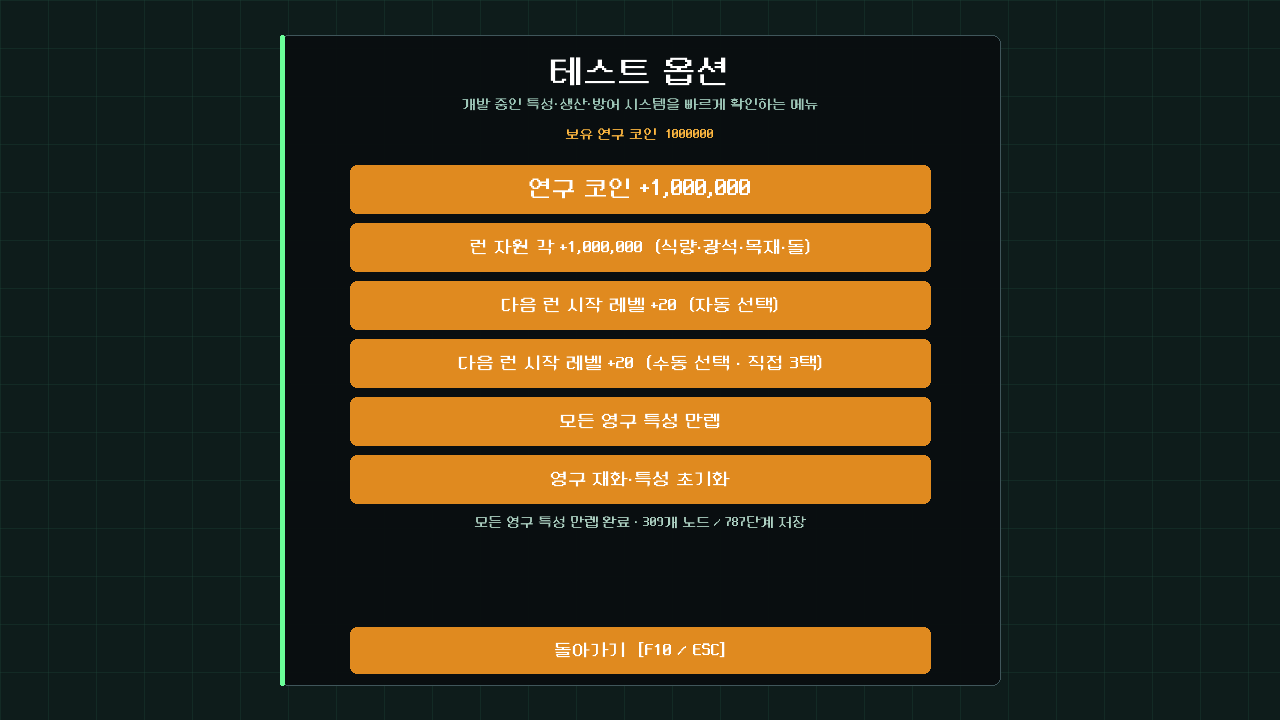
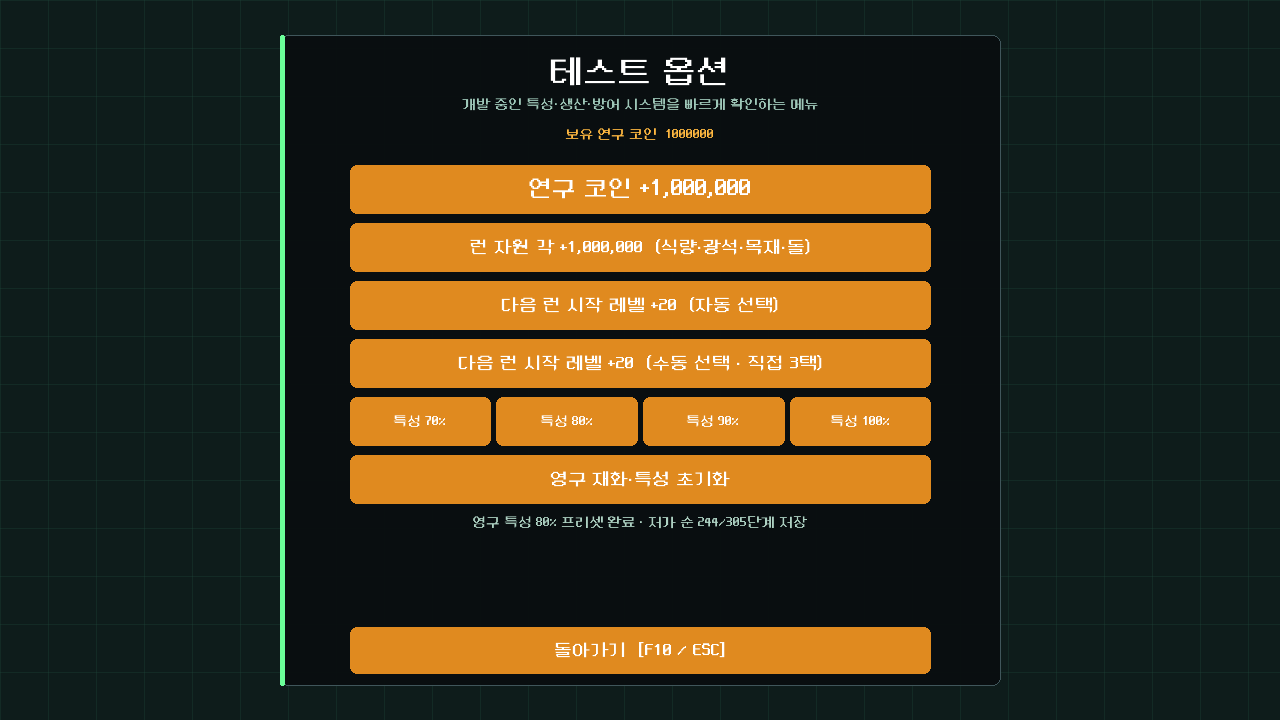
Add developer trait progress presets

diff --git a/docs/ACTIVE_DEVELOPMENT_MODE.md b/docs/ACTIVE_DEVELOPMENT_MODE.md
@@ -23,6 +23,7 @@
 - 무기·동료·운영 성장은 로비 영구 연구에서만 구매한다. 일반 작전의 카드·융합 코드는 보존하지만 기록 모드 후보 풀에는 넣지 않는다.
 - 메타 진행은 `작업 → 정산 → 기록전 영구 연구 → 즉시 다음 작업`으로 연결한다. 상세 기준은 `docs/SCORE_ATTACK_META_LOOP.md`다.
 - 로비 `P` 연습장도 같은 `score_attack` 런타임을 쓴다. 단, 시간·과밀·개체 수 상한·0그루 승급·세계수를 끄고 나무를 계속 생성하는 무한 테스트장으로 변형한다. 보유 특성과 세이브를 건드리지 않는 임시 전체 만렙 사이를 선택할 수 있다.
+- `F10` 개발자 도구에는 활성 영구 연구를 실제 가격이 싼 순서로 채우는 `70% / 80% / 90% / 100%` 저장 프리셋이 있다. 선행 조건을 지킨 정상 연구망을 만들며, 진행 중인 판에는 재시작 뒤 적용된다.
 
 ## 의도적으로 비활성화한 범위
 

diff --git a/docs/ARCHIVED_CAMPAIGN.md b/docs/ARCHIVED_CAMPAIGN.md
@@ -107,7 +107,7 @@ love .
 로비의 `테스트 옵션` 버튼이나 언제든 `F10`으로 개발용 메뉴를 엽니다.
 
 - 연구 코인 `+1,000,000`: 현재 기록 모드의 영구 특성 구매 테스트용 재화를 즉시 저장
-- 모든 영구 특성 만렙: 등록된 캐릭터·공용 연구 노드를 비용과 선행조건 없이 최대 단계로 맞추고 즉시 저장
+- 영구 특성 `70% / 80% / 90% / 100%`: 현재 기록 모드 연구를 선행조건을 지키며 실제 가격이 싼 단계부터 선택한 비율까지 맞추고 즉시 저장
 - 런 자원 각 `+1,000,000`: 식량·광석·목재·돌·씨앗 지급. 로비에서는 다음 런에 예약
 - 생산 레벨 `+10`: 런 강화 3택을 연속 테스트. 로비에서는 다음 런에 예약
 - 영구 재화·특성 초기화: 4초 안에 두 번 눌러 저장된 연구 코인과 영구 특성을 모두 초기화
